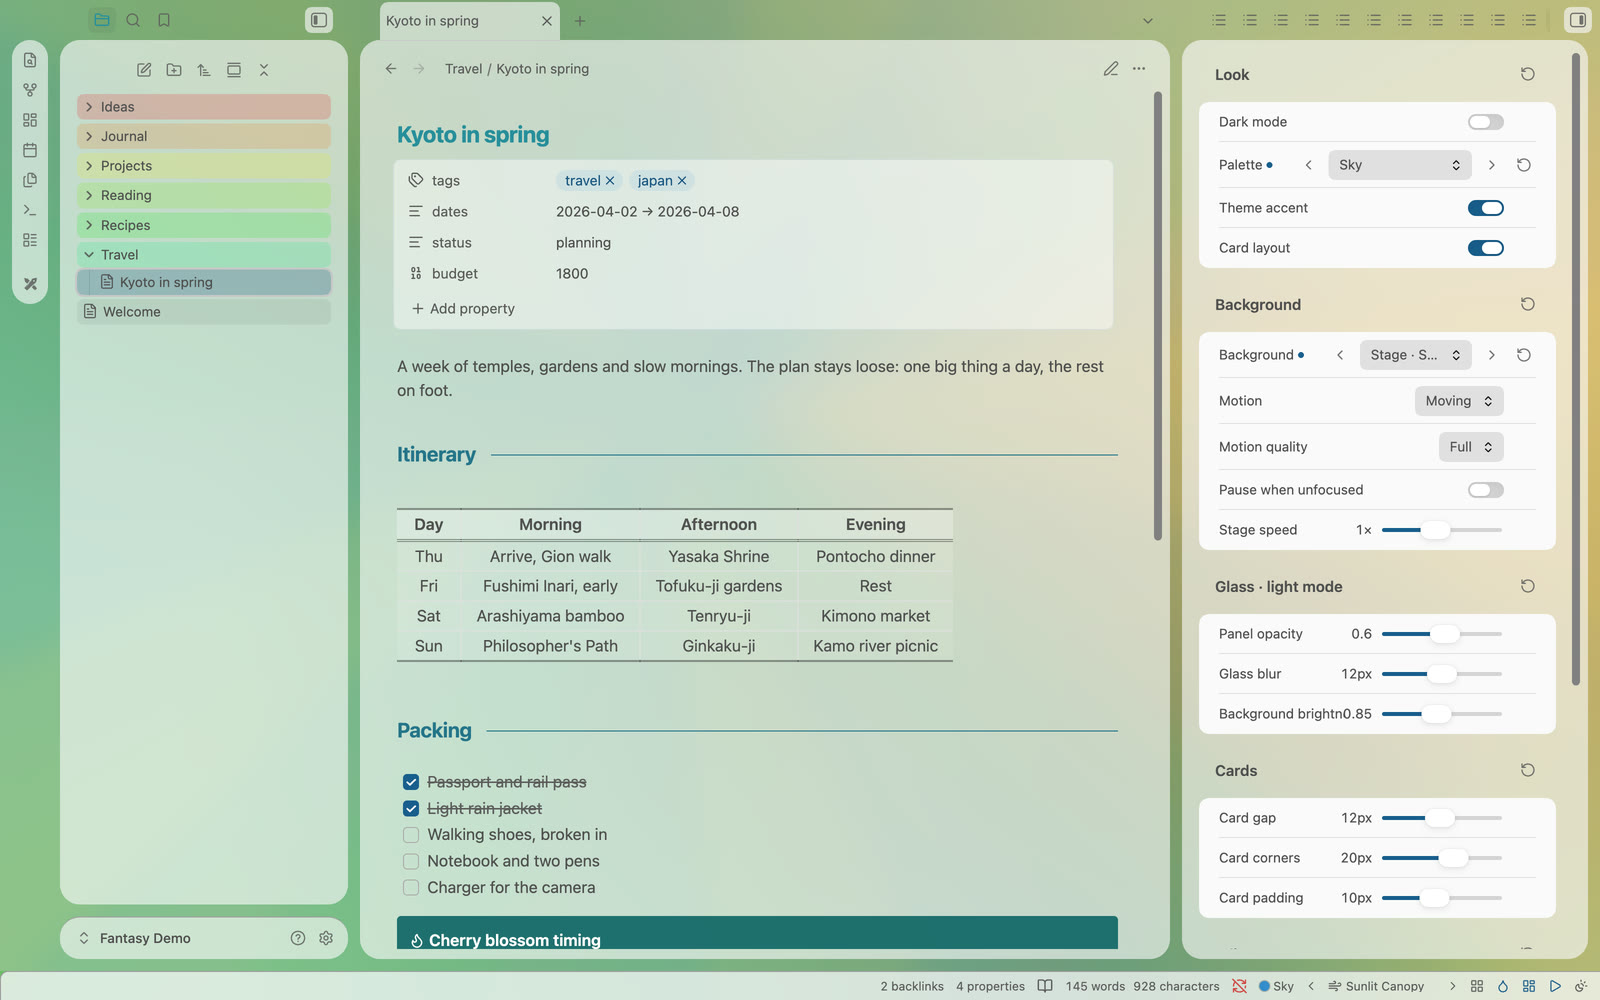
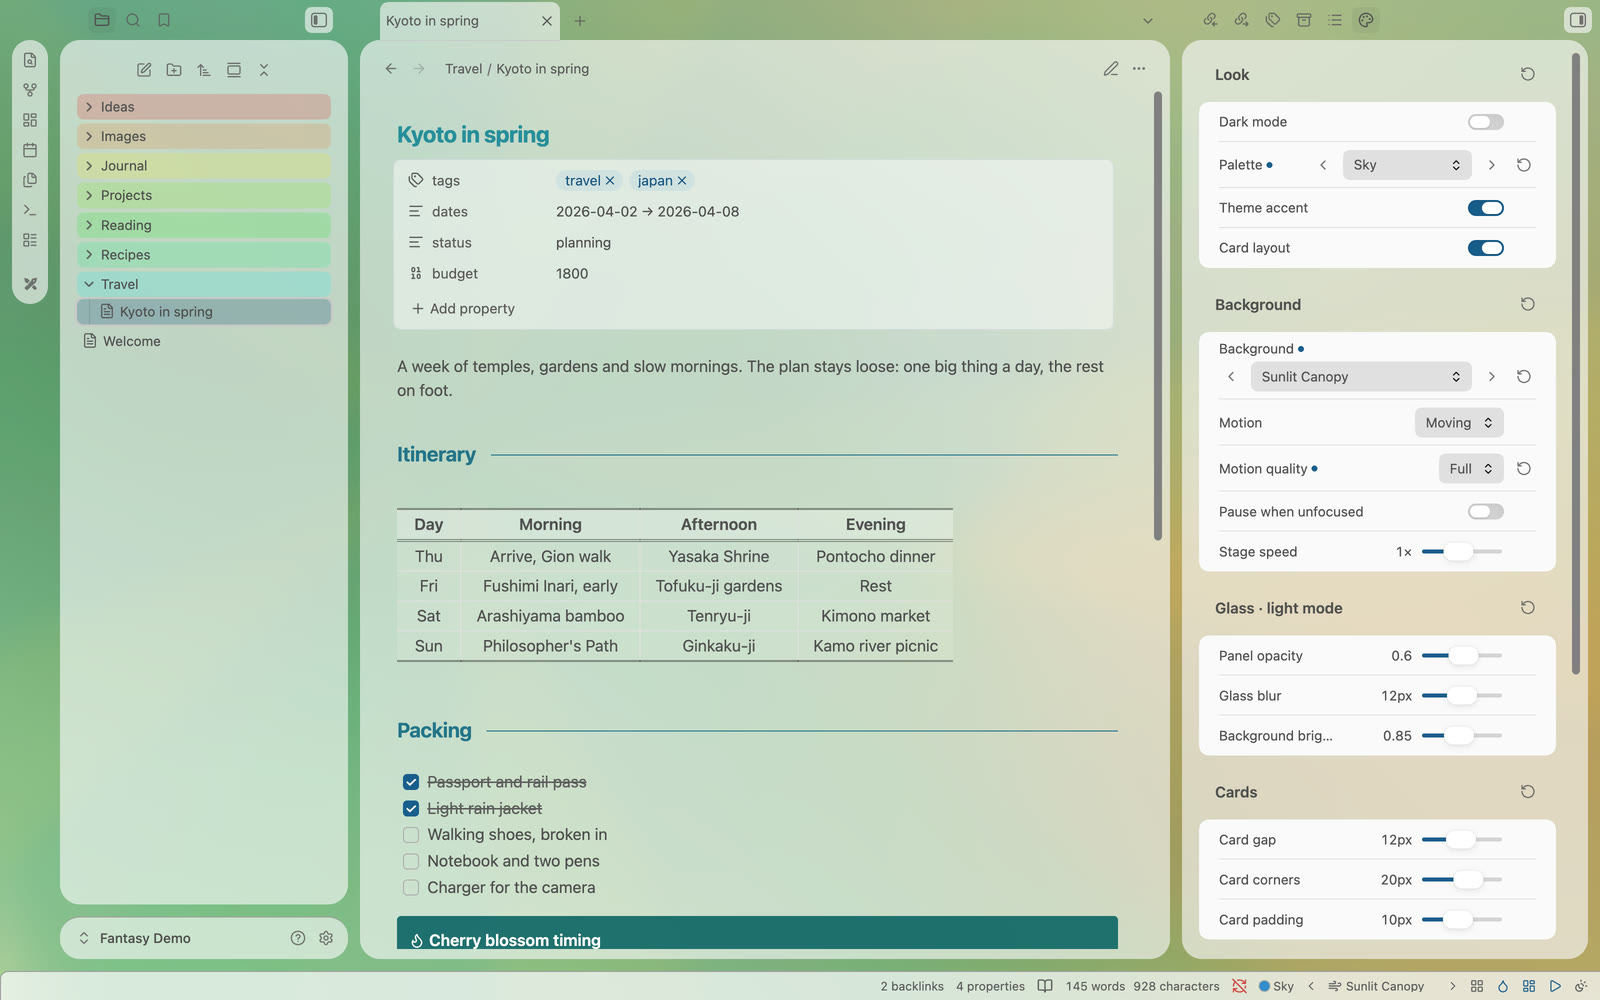
release(easel): 1.0.0 with the new README media
README: hero animation (typing while the wallpaper changes), Still / Moving / Your
pictures, the panel gallery and the Your pictures window; disclosure that dropped
pictures are copied into the vault.

diff --git a/README.md b/README.md
@@ -4,25 +4,46 @@
 
 **No setup needed.** Fantasy already looks complete on its own. Easel is optional: turn it on when you want to change the look, and everything stays in one sidebar tab.
 
-![Fantasy Easel: stage wallpaper and the style panel](assets/easel-hero.jpg)
+![Typing a note in source and reading view while the wallpaper behind the glass changes](assets/easel-hero.webp)
 
-## Features
+## Wallpapers that move
+
+Three kinds of wallpaper, grouped the same way everywhere:
+
+- **Still:** soft gradients. Some follow your palette, some keep their own colors.
+- **Moving:** slow media-art gradients and 19 four-layer "stage" scenes that drift and turn.
+- **Your pictures:** see below.
+
+Motion is *Moving*, *Follow system* (still when *Reduce motion* is on) or *Still*. *Motion quality* Light draws moving wallpapers with less GPU work (the default on Windows). *Still* and *Pause when unfocused* save the most battery.
+
+## One panel for every style
+
+Command *Open style panel* opens a sidebar tab with the main switches (dark mode, palette, accent, cards, wallpaper, motion) and sliders for glass opacity, blur and brightness (kept per dark and light mode), card gap, corners and padding, note width, heading size and paragraph spacing. Every value has a reset.
+
+The **gallery** sits at the bottom of the panel: every wallpaper under a glass card that follows your settings. Click one to use it.
+
+| Style panel in light mode | Gallery in the panel |
+| --- | --- |
+| ![Style panel in light mode](assets/easel-panel-light.jpg) | ![Wallpaper gallery in the style panel](assets/easel-panel-gallery.jpg) |
+
+## Your pictures
+
+Drop a picture on the add box (in the panel, in Settings or in the *Your pictures* window), click it to choose files, or type a vault path, `https://…` or `file://…`. A new picture goes to the top and becomes the wallpaper.
+
+- Files from Finder or Explorer are copied into the vault, to **Picture folder** (Settings) or your attachment folder, so they work on every device that has the vault.
+- *Manage pictures…* (wallpaper menu in the status bar, or the command) opens a window to add, use and remove pictures. Removing one only takes it off the list; the file stays.
+
+![The Your pictures window](assets/easel-pictures.jpg)
+
+## Also
 
 - **Six palettes:** Graphite, Sky, Ocean, Emerald, Mystic and Orchid tint the glass, the wallpaper and the accent.
-- **Wallpapers, still and moving:** CSS gradients, slow media-art motion, 19 four-layer "stage" scenes, and your own pictures (a vault image, a web address, or a file on this computer).
-- **Style panel** (command *Open style panel*): the main switches plus sliders for glass opacity, blur and brightness (kept per dark and light mode), card gap, corners and padding, note width, heading size and paragraph spacing. Every value has a reset.
-- **Gallery:** every wallpaper under a glass card that follows your settings.
 - **Plugin styles:** Dataview, Kanban and Excalidraw fitted to the glass, each part on or off.
-- **Motion:** Moving, Follow system (still when *Reduce motion* is on), or Still. *Motion quality* Light draws moving wallpapers with less GPU work (the default on Windows).
 - **Status bar:** palette, previous and next wallpaper, gallery, accent, cards, motion and dark or light, in the order you choose.
-
-## Screenshots
 
 ![The six palettes](assets/easel-palettes.jpg)
 
-| Style panel in light mode | Kanban, Dataview and Excalidraw |
-| --- | --- |
-| ![Style panel in light mode](assets/easel-panel-light.jpg) | ![Plugin styles](assets/easel-plugin-styles.jpg) |
+![Kanban, Dataview and Excalidraw](assets/easel-plugin-styles.jpg)
 
 ## Install
 
@@ -37,6 +58,7 @@ Desktop only, Obsidian 1.13 or later. With any other theme the plugin stays idle
 
 - **Network use:** a picture you add as a web address (`https://…`) is loaded from that site. Nothing else goes over the network; the built-in wallpapers are CSS only.
 - **Files outside the vault:** a picture you add as `file://…` or an absolute path is read from that place on your computer, only to show it as the wallpaper. It works only on that computer; vault pictures work wherever the vault is.
+- **Files written to the vault:** a picture you drop from Finder or Explorer (or choose with the file picker) is copied into the vault, to *Picture folder* or your attachment folder. Easel writes nothing else to your vault.
 
 ## Develop
 
